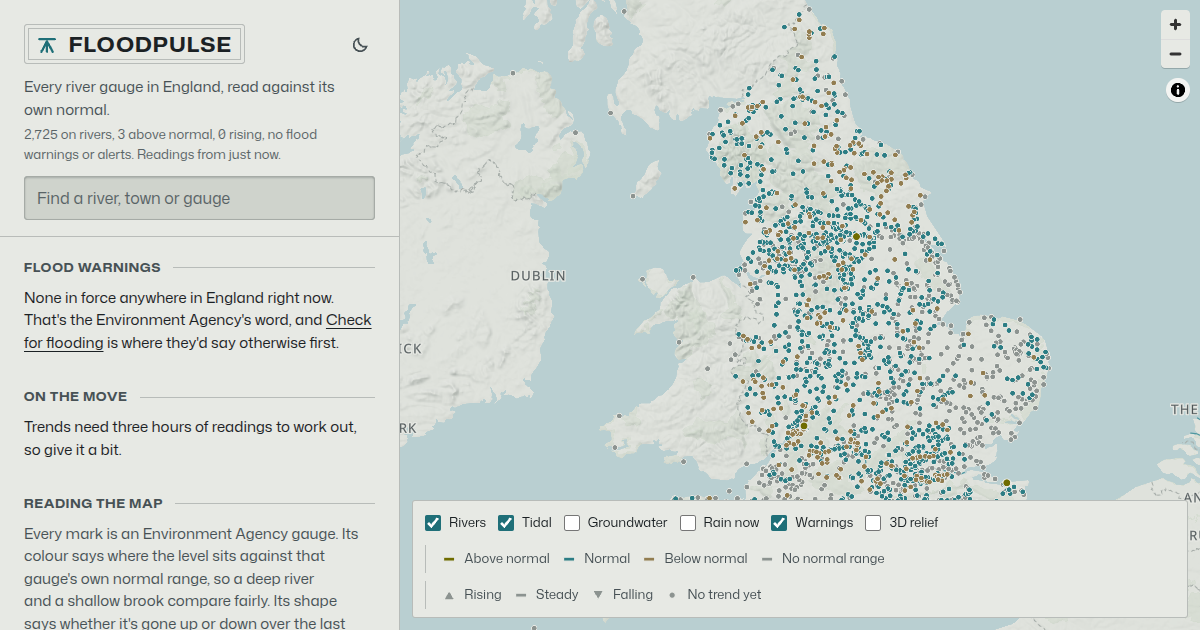
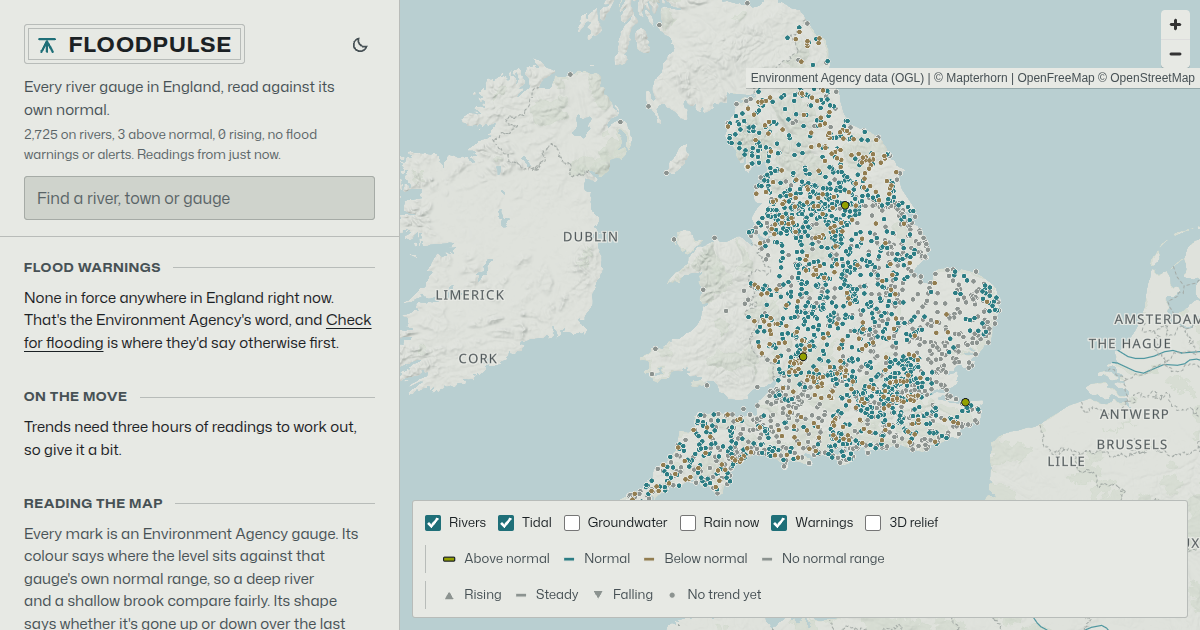
fix: full map credit on desktop, history revalidates, fresh screenshots

diff --git a/src/routes/rain/[id]/+page.svelte b/src/routes/rain/[id]/+page.svelte
@@ -1,5 +1,6 @@
 <script lang="ts">
   import { ago, clock, millimetres } from '#lib/format.js';
+  import { fetchHistory } from '#lib/history.js';
   import { useFeed } from '#lib/live.svelte.js';
   import { name } from '#lib/meta.js';
   import { hourly, total } from '#lib/rain.js';
@@ -17,9 +18,8 @@
     const quit = new AbortController();
     history = undefined;
     failed = false;
-    fetch(`/api/history/${measure}`, { signal: quit.signal })
-      .then((res) => (res.ok ? res.json() : Promise.reject(new Error(`history ${res.status}`))))
-      .then((points: Point[]) => (history = points))
+    fetchHistory(measure, quit.signal)
+      .then((points) => (history = points))
       .catch(() => !quit.signal.aborted && (failed = true));
     return () => quit.abort();
   });

diff --git a/src/routes/station/[id]/+page.svelte b/src/routes/station/[id]/+page.svelte
@@ -14,6 +14,7 @@
     stateLabel,
     trendLabel
   } from '#lib/format.js';
+  import { fetchHistory } from '#lib/history.js';
   import { useFeed } from '#lib/live.svelte.js';
   import { name, official } from '#lib/meta.js';
   import type { Point } from '#lib/types.js';
@@ -43,9 +44,8 @@
     const quit = new AbortController();
     history = undefined;
     failed = false;
-    fetch(`/api/history/${measure}`, { signal: quit.signal })
-      .then((res) => (res.ok ? res.json() : Promise.reject(new Error(`history ${res.status}`))))
-      .then((points: Point[]) => (history = points))
+    fetchHistory(measure, quit.signal)
+      .then((points) => (history = points))
       .catch(() => !quit.signal.aborted && (failed = true));
     return () => quit.abort();
   });

diff --git a/src/routes/+layout.svelte b/src/routes/+layout.svelte
@@ -83,7 +83,8 @@
         >, under the
         <a href="https://www.nationalarchives.gov.uk/doc/open-government-licence/version/3/"
           >Open Government Licence</a
-        >. Not an official service, so for anything that matters check
+        >. Map data © <a href="https://www.openstreetmap.org/copyright">OpenStreetMap</a>
+        contributors. Not an official service, so for anything that matters check
         <a href={official}>Check for flooding</a> or call Floodline on 0345 988 1188.
       </p>
       <p>

diff --git a/src/lib/history.ts b/src/lib/history.ts
@@ -1,0 +1,7 @@
+import type { Point } from './types.ts';
+
+/** A gauge's last five days, revalidated, as Cloudflare would let the browser keep it for hours */
+export const fetchHistory = (measure: string, signal: AbortSignal): Promise<Point[]> =>
+  fetch(`/api/history/${measure}`, { cache: 'no-cache', signal }).then((res) =>
+    res.ok ? res.json() : Promise.reject(new Error(`history ${res.status}`))
+  );

diff --git a/src/lib/components/Map.svelte b/src/lib/components/Map.svelte
@@ -296,7 +296,7 @@
           return;
         }
         target.addControl(new NavigationControl({ showCompass: false }), 'top-right');
-        target.addControl(new AttributionControl({ compact: true }), 'top-right');
+        target.addControl(new AttributionControl({ compact: !wide.current }), 'top-right');
         const popup = new Popup({
           closeButton: false,
           closeOnClick: false,
